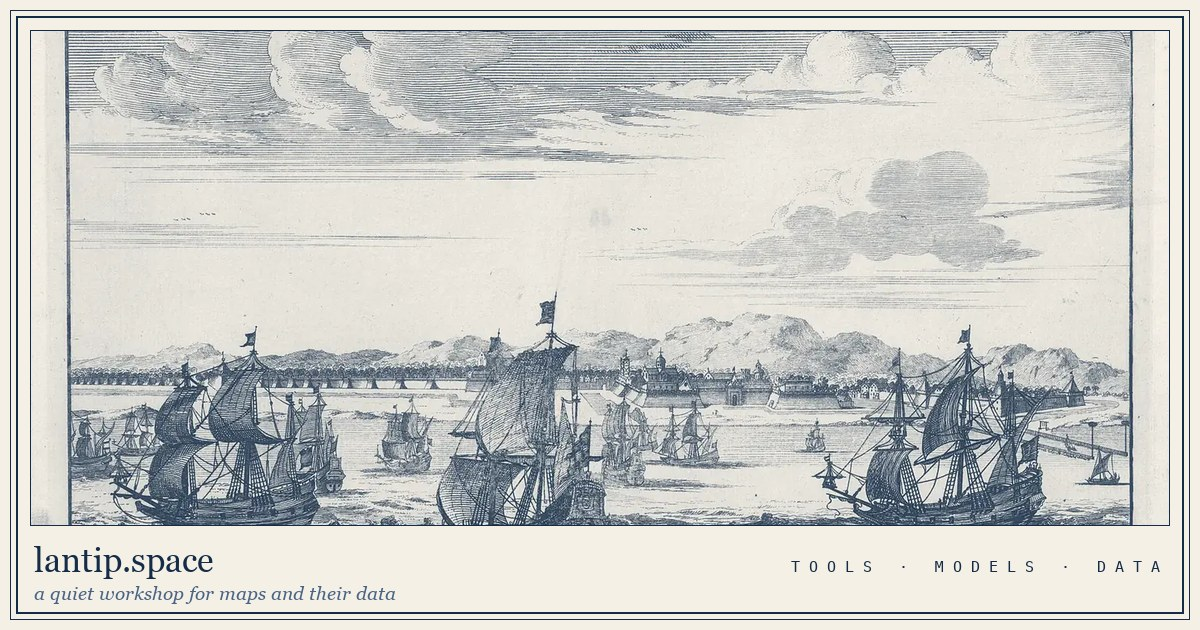
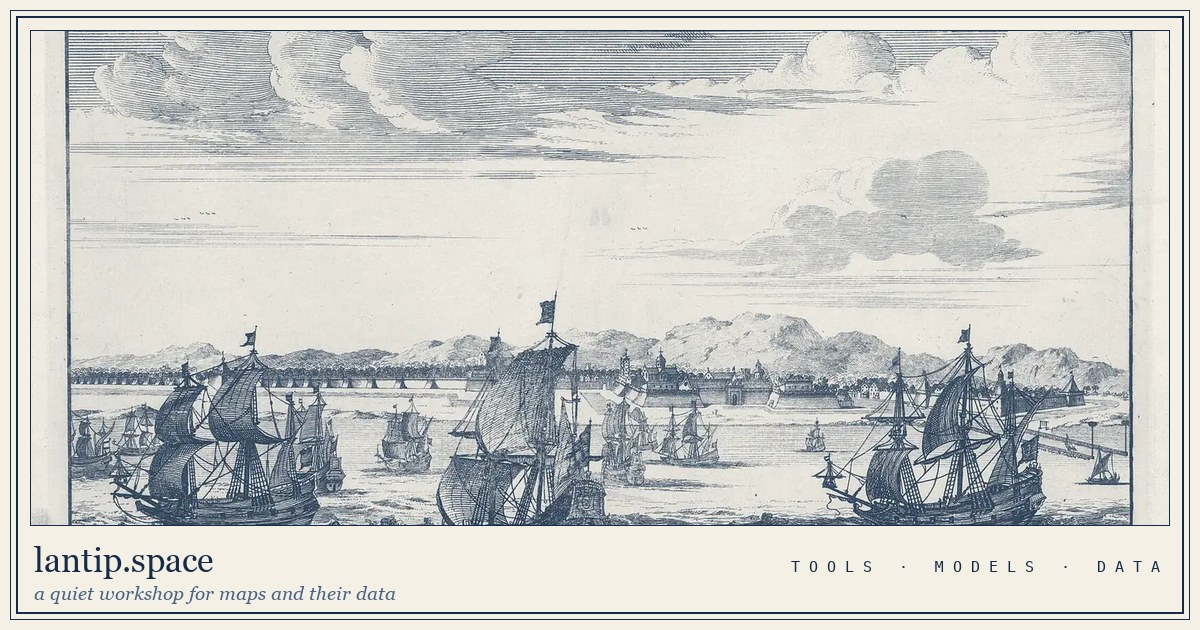
plates full-bleed + engraved footer strip
- home banner and content-page plates now edge-to-edge, capped at native widths
- new footer-strip.webp (roadstead band) at the bottom of every page
- banner regen 1440w/279KB; sumbing 1709w; og regenerated

diff --git a/tools/plates.py b/tools/plates.py
@@ -22,11 +22,13 @@ INK = (20, 44, 71)  # #142c47 ink-deep
 # crop = (left, right, top, bottom) as fractions of the source image
 PLATES = [
     dict(name="batavia-roadstead", src="batavia-roadstead.jpg",
-         crop=(0.07, 0.93, 0.03, 0.88), width=1400, quality=71),
+         crop=(0.07, 0.93, 0.03, 0.88), width=1440, quality=66),
+    dict(name="footer-strip", src="batavia-roadstead.jpg",
+         crop=(0.07, 0.93, 0.44, 0.80), width=1600, quality=70),
     dict(name="banda-roadstead", src="banda-roadstead.jpg",
-         crop=(0.155, 0.845, 0.145, 0.78), width=1400, quality=78),
+         crop=(0.155, 0.845, 0.145, 0.78), width=1800, quality=66),
     dict(name="sumbing", src="sumbing.jpg",
-         crop=(0.055, 0.945, 0.045, 0.80), width=1400, quality=78),
+         crop=(0.055, 0.945, 0.045, 0.80), width=1800, quality=66),
     dict(name="batavia-map", src="batavia-map.jpg",
          crop=(0.02, 0.98, 0.235, 0.94), width=1000, quality=80),
     dict(name="batavia-cartouche", src="batavia-map.jpg",

diff --git a/LOG.md b/LOG.md
@@ -42,3 +42,20 @@ Format: `## YYYY-MM-DD — title`, then bullets: what changed, what broke, what'
 - Git: initialized, committed, pushed to `sawungrana/lantipspace-site` (branch `master`).
 - Next: Cloudflare Pages project + `lantip.space` cutover (steps in `HANDOVER.md`); swap
   `/lantipscript` CTA to direct v1.0.0 assets once that release is published.
+
+## 2026-10-16 — session 3: bigger plates, footer engraving
+
+- User feedback: images should stand out more, and the footer should carry an image
+  (reference: full-bleed illustration in the footer).
+- All landscape plates are now **full-bleed** (edge-to-edge, unframed; capped at native
+  widths so nothing upscales on huge screens): home banner, banda, sumbing, cartouche,
+  casteel. Captions stay aligned to the text column. `/data`'s portrait map keeps its
+  plate frame (full-bleed portrait would be absurd).
+- New `footer-strip.webp` (1600×480): lower band of the roadstead engraving (ships +
+  Batavia skyline), generated by `tools/plates.py`, full-bleed at the bottom of every
+  footer with a rule line on top. Home now bookends the page with the same view.
+- Banner regenerated at 1440×1020 q66 (279 KB — under the 300 KB budget); sumbing now
+  1709×1152 (270 KB), banda 1325×828 (211 KB — native crop limit of the 1920px download).
+- `og.jpg` regenerated from the new banner (216 KB). All budgets still met.
+- QA: build passes; re-screenshotted home, lantipscript, lantev, cartouche, not-doing.
+- Next: same as session 2 (Cloudflare cutover; v1.0.0 asset links).

diff --git a/SOURCES.md b/SOURCES.md
@@ -12,6 +12,7 @@ Originals live in `assets-src/plates/` (not committed; re-download from the link
 | Output | Work | Source | License |
 |---|---|---|---|
 | `batavia-roadstead.webp` | *Gezicht op Batavia*, 1705, RP-P-2018-3197 (ships on the Batavia roadstead) | [Rijksmuseum via Commons](https://commons.wikimedia.org/wiki/File:Gezicht_op_Batavia,_RP-P-2018-3197.jpg) | CC0 |
+| `footer-strip.webp` | Lower band of the same roadstead view (ships + skyline), cropped for the footer | (same file, cropped) | CC0 |
 | `banda-roadstead.webp` | *De reede van Banda* (Banda Neira harbor; series *Gezigten uit Neêrlands Indië*), 1843–45, RP-P-2016-2260-7-1 | [Rijksmuseum via Commons](https://commons.wikimedia.org/wiki/File:Gezicht_vanaf_het_water_op_de_haven_van_Banda_Neira_De_reede_van_Banda._Banda_Neira_(titel_op_object)_Molukschen_Archipel_(serietitel_op_object)_Gezigten_uit_Ne%C3%AArlands_Indi%C3%AB_(serietitel_op_object),_RP-P-2016-2260-7-1.jpg) | CC0 |
 | `sumbing.webp` | *Gezicht op de berg Sumbing op Java*, lithograph by C.W. Mieling after Frans Wilhelm Junghuhn, 1853–54 | [Rijksmuseum via Commons](https://commons.wikimedia.org/wiki/File:Gezicht_op_de_berg_Sumbing_op_Java,_Carl_Wilhelm_Mieling_(mogelijk),_naar_Frans_Wilhelm_Junghuhn,_1853_-_1854.jpg) | CC0 |
 | `batavia-map.webp` | *Map of Batavia* (city plan), C.A. van Luepken / Johannes Rach, 1761, AMH-5579-NA | [Nationaal Archief via Commons](https://commons.wikimedia.org/wiki/File:AMH-5579-NA_Map_of_Batavia.jpg) | Public domain |
